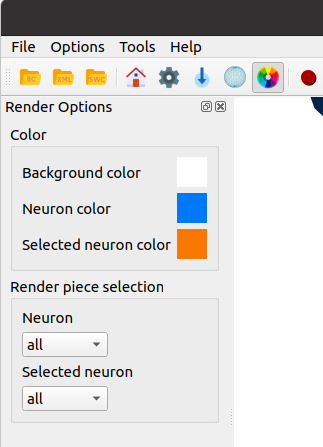
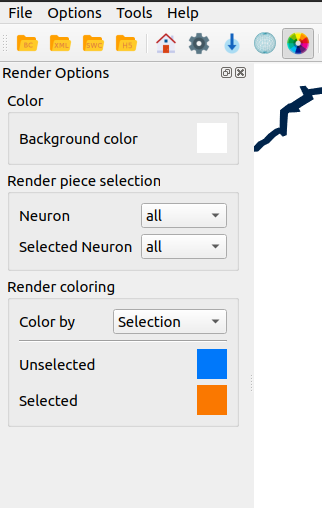
Update to version 0.5.0.

diff --git a/source/conf.py b/source/conf.py
@@ -22,7 +22,7 @@ copyright = '2022, Universidad Rey Juan Carlos'
 author = 'Félix de las Pozas Álvarez'
 
 # The full version, including alpha/beta/rc tags
-release = '0.4.4'
+release = '0.5.0'
 
 
 # -- General configuration ---------------------------------------------------
@@ -67,7 +67,7 @@ latex_maketitle = r'''
 \begin{center}
   \includegraphics[width=6cm,height=6cm]{neurotessmesh.png}\\[8ex]
   {\Huge NeuroTessMesh Documentation}\\[4ex]
-  {\Large Version 0.4.4}\\[4ex]
+  {\Large Version 0.5.0}\\[4ex]
   {\Large Juan Jos\'{e} Garc\'{i}a Cantero \& F\'{e}lix de las Pozas \'{A}lvarez}\\[4ex]
   {\Large March 2022}\\[16ex]
   {\Large Visualization \& Graphics Lab, Universidad Rey Juan Carlos}\\[4ex]

diff --git a/source/02-NeuroTessMeshUserInterface.rst b/source/02-NeuroTessMeshUserInterface.rst
@@ -2,6 +2,18 @@
 NeuroTessMesh User Interface
 ============================
 
+In this section we'll describe the different panels and configuration options in the main dialog. 
+
+.. _fig0:
+
+.. figure:: images/NTMimage000.png
+   :alt: NeuronTessMesh application main window.
+   :align: center
+   :width: 1020
+   :scale: 100%
+
+   NeuronTessMess application main window.
+
 ---------------------------------
 NeuroTessMesh Application Toolbar
 ---------------------------------
@@ -13,7 +25,7 @@ The application bar presents several icons to perform actions such as opening da
 .. figure:: images/NTMimage001.png
    :alt: NeuroTessMesh application toolbar
    :align: center
-   :width: 395
+   :width: 381
    :scale: 100%
 
    NeuroTessMesh application tool bar. 
@@ -60,23 +72,31 @@ Configuration
 Render panel
 ^^^^^^^^^^^^
 
-  - **Color**: Select the color for each of the following entities.
+  - **Color**: Selects the background color for the scene view.
   
-      - **Background**
-      - **Neuron**
-      - **Selected neuron**
       
-  - **Render piece selection**: select the parts (full, only soma, only neurites or  nothing) of the neuron to visualize. This selection can be done independently for each of the following  types of neurons.  
+  - **Render piece selection**: Select the parts (full, only soma, only neurites) of the neuron to visualize. This selection can be done independently for each of the following types of neurons.  
   
       - **Neuron**
       - **Selected neuron**
+
+The **Selected**, and **Unselected** neurons refer to the entities selected via ZeroEQ selection in other applications.
+
+  - **Render coloring**: Selects the coloring method for the current scene. There are four coloring methods:
+
+    - **Selection**: Color neurons by selection.
+    - **Morphology**: Color neurons by morphology type.
+    - **Layer**: Color neurons by layer.
+    - **Function**: Color neurons by function type.
+
+The render coloring method selected will affect the colors shown in the neuron list and edit panel. The color for each possible value can be modified by clicking in the colored box right next to the value name.
 
 .. _fig3:
 
 .. figure:: images/NTMimage003.png
    :alt: Render panel
    :align: center
-   :width: 323
+   :width: 322
    :scale: 80%
 
    Render panel.
@@ -85,6 +105,9 @@ Render panel
 Edit and save panel
 ^^^^^^^^^^^^^^^^^^^
 
+The **edit and save** panel list the neurons in the scene colored by the selected coloring method in the render panel. The neurons are listed in this panel using the pattern *(id) (morphological type)* in its naming.
+
+  - **Show additional information**: adds the function and layer information to the neuron name (if available).
   - **Select Neuron**: select the target neuron from a list of the neurons in the current scene.  
   - **Parameters**: different parameters to modify the reconstructed neuronal mesh.  
   
@@ -98,45 +121,45 @@ Edit and save panel
 .. figure:: images/NTMimage004.png
    :alt: Edit and save panel
    :align: center
-   :width: 999
-   :scale: 60%
-
-   Edit and save panel.
-
-
-^^^^^^^^^^^^
-Player panel
-^^^^^^^^^^^^
-
-The player panel is only enabled if the dataset loaded have neuron spikes information (currently only BlueConfig datasets). The panel contains the player options and the playing position bar.
-
-The player configuration options are:
-  - **Step delta time**: Amount of increment per simulation step. 
-  - **Steps/second**: Number of steps per second.
-
-.. _figa4:
-
-.. figure:: images/NTMimage013.png
-   :alt: Spike activation simulation.
-   :align: center
    :width: 1020
    :scale: 60%
 
-   Spike activation simulation.
+   Edit and save panel (left).
 
-When a dataset has spike information the **player** panel allow the user to **play**, **stop** and position the simulation at the selected time. When a neuron activates it changes color to red, and then decays to the current neuron color. 
+.. Commented out until player is activated again.  
+   ^^^^^^^^^^^^
+   Player panel
+   ^^^^^^^^^^^^
 
-.. warning::
-   Simulations are most visible if the render is only displaying the soma because when activated the whole neuron will change color.
+   The player panel is only enabled if the dataset loaded have neuron spikes information (currently only BlueConfig datasets). The panel contains the player options and the playing position bar.
+
+   The player configuration options are:
+     - **Step delta time**: Amount of increment per simulation step. 
+     - **Steps/second**: Number of steps per second.
+
+   .. _figa4:
+
+   .. figure:: images/NTMimage013.png
+      :alt: Spike activation simulation.
+      :align: center
+      :width: 1020
+      :scale: 60%
+
+      Spike activation simulation.
+
+   When a dataset has spike information the **player** panel allow the user to **play**, **stop** and position the simulation at the selected time. When a neuron activates it changes color to red, and then decays to the current neuron color. 
+
+   .. warning::
+      Simulations are most visible if the render is only displaying the soma because when activated the whole neuron will change color.
 
 ^^^^^^^^^^^^^^^^^^^^^
 Scene camera controls
 ^^^^^^^^^^^^^^^^^^^^^
 
 The camera can be manipulated using the mouse. The movements are:
-  - Rotation: mouse left button + mouse movement. 
-  - Translation: mouse scroll button + mouse movement. 
-  - Zoom: mouse scroll to zoom in and out.
+  - **Rotation:** mouse left button + mouse movement. 
+  - **Translation:** mouse scroll button (middle button) + mouse movement. 
+  - **Zoom:** mouse scroll to zoom in and out.
 
 ---------------------------------
 NeuroTessMesh Menu Toolbar
@@ -172,9 +195,11 @@ Options menu
 - **Update on idle**: This will reduce visualization repaint calls to user interaction (camera rotation, etc.) and specific actions.
 - **Show FPS on idle update**: Displays a label with current frames per second rate. Note: this might reduce performance due to interface update calls, so it is recommended to hide it when not interested on measuring performance.
 - **Render options**: Shows/hides the render panel.
-- **Simulation player options**: Shows/hides the spike simulation player. The player will be disabled if the dataset has no spike information.
 - **Edit And Save**: Shows/hides the edit and save panel.
 - **Configuration**: Shows/hides the configuration panel.
+
+.. Commented out until player is activated again.
+   - **Simulation player options**: Shows/hides the spike simulation player. The player will be disabled if the dataset has no spike information.
 
 ^^^^^^^^^^
 Tools menu

diff --git a/source/01-Introduction.rst b/source/01-Introduction.rst
@@ -4,7 +4,7 @@ NeuroTessMesh Introduction
 
 **NeuroLOTs** is a set of libraries and tools that implement a method for generating neuronal meshes and for visualizing them at different levels of detail using GPU-based tessellation. As a part of NeuroLOTs, **NeuroTessMesh** provides a visual environment for the generation of 3D polygonal meshes that approximate the membrane of neuronal cells, from the morphological tracings that describe the morphology of the neurons. The 3D models can be tessellated at different levels of detail, providing either homogeneous or adaptive resolution along the model. The soma shape is recovered from the incomplete information of the tracings, applying a physical deformation model that can be interactively adjusted. The adaptive refinement process performed in the GPU generates meshes that allow good visual quality geometries at an affordable computational cost, both in terms of memory and rendering time. NeuroTessMesh is the front-end GUI to NeuroLOTs framework. 
 
-This documentation is for NeuroTessMesh version 0.4.4 software that can be obtained from the homepage.
+This documentation is for NeuroTessMesh version 0.5.0 software that can be obtained from the homepage.
 
 ---------------------
 Hardware requirements
@@ -117,9 +117,9 @@ Docker example
 
   xhost +local:docker
   # Pull the image.
-  docker pull vglab/neurotessmesh:0.4.4-nvidia-ubuntu-16.04
+  docker pull vglab/neurotessmesh:0.5.0-nvidia-ubuntu-16.04
   # Download example data
   wget http://neuromorpho.org/dableFiles/allen%20cell%20types/CNG%20version/H16-03-001-01-09-01_559391771_m.CNG.swc
   # Run example
-  docker run --gpus 1 -ti --rm -e DISPLAY -v /tmp/.X11-unix:/tmp/.X11-unix -v /etc/machine-id:/etc/machine-id -v $(pwd)/H16-03-001-01-09-01_559391771_m.CNG.swc:/H16-03-001-01-09-01_559391771_m.CNG.swc --privileged vglab/neurotessmesh:0.4.4-nvidia-ubuntu-16.04 /usr/bin/NeuroTessMesh -swc /H16-03-001-01-09-01_559391771_m.CNG.swc
+  docker run --gpus 1 -ti --rm -e DISPLAY -v /tmp/.X11-unix:/tmp/.X11-unix -v /etc/machine-id:/etc/machine-id -v $(pwd)/H16-03-001-01-09-01_559391771_m.CNG.swc:/H16-03-001-01-09-01_559391771_m.CNG.swc --privileged vglab/neurotessmesh:0.5.0-nvidia-ubuntu-16.04 /usr/bin/NeuroTessMesh -swc /H16-03-001-01-09-01_559391771_m.CNG.swc
 

diff --git a/source/03-Runbook.rst b/source/03-Runbook.rst
@@ -3,7 +3,7 @@ Runbook
 =======
 
 .. note::
-   This runbook will test the main functionalities of NeuroTessMesh and can be considered as a basic tutorial for the application, but **not** as a complete and exhaustive tutorial of all its functionalities. This runbook is up to date with NeuroTessMesh version 0.4.4 (some images are from version 0.4.0). 
+   This runbook will test the main functionalities of NeuroTessMesh and can be considered as a basic tutorial for the application, but **not** as a complete and exhaustive tutorial of all its functionalities. This runbook is up to date with NeuroTessMesh version 0.5.0. 
 
 1. Load a "swc" file (:numref:`fig5`). 
 
@@ -76,7 +76,7 @@ Runbook
 .. figure:: images/NTMimage009.png
    :alt: Save to file.
    :align: center
-   :width: 999
+   :width: 1000
    :scale: 60%
 
    Save results to file.
